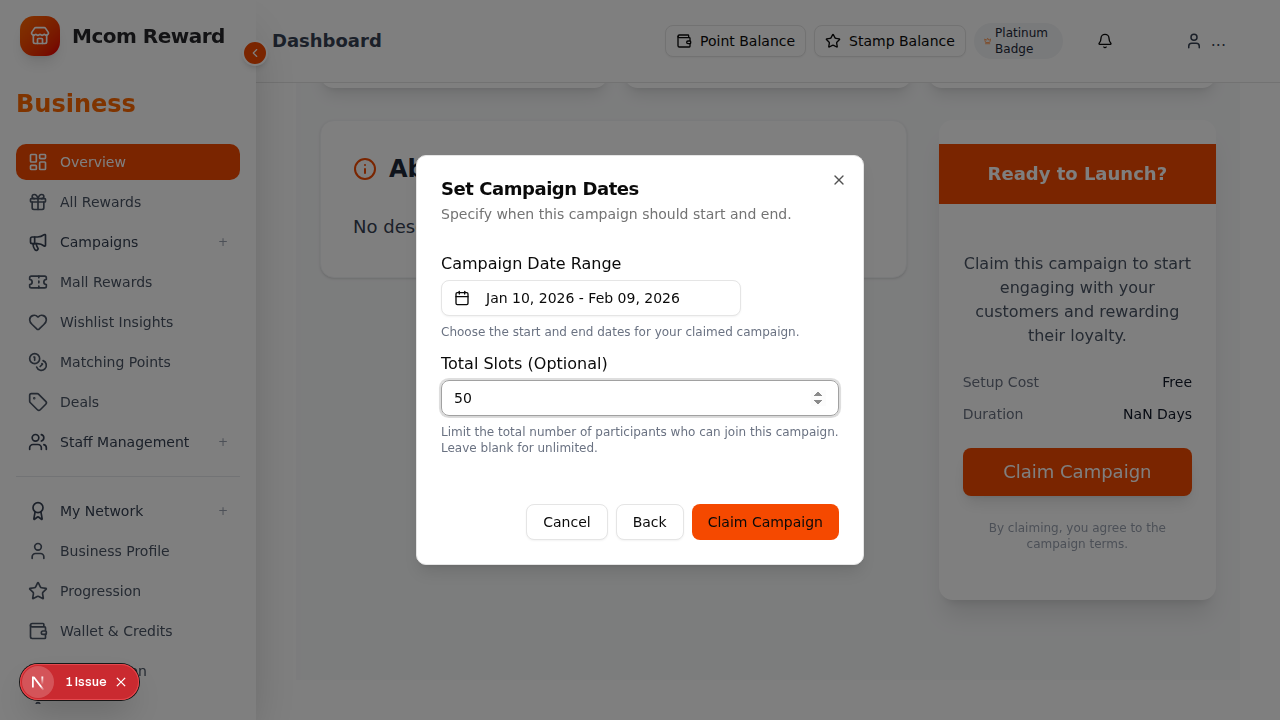
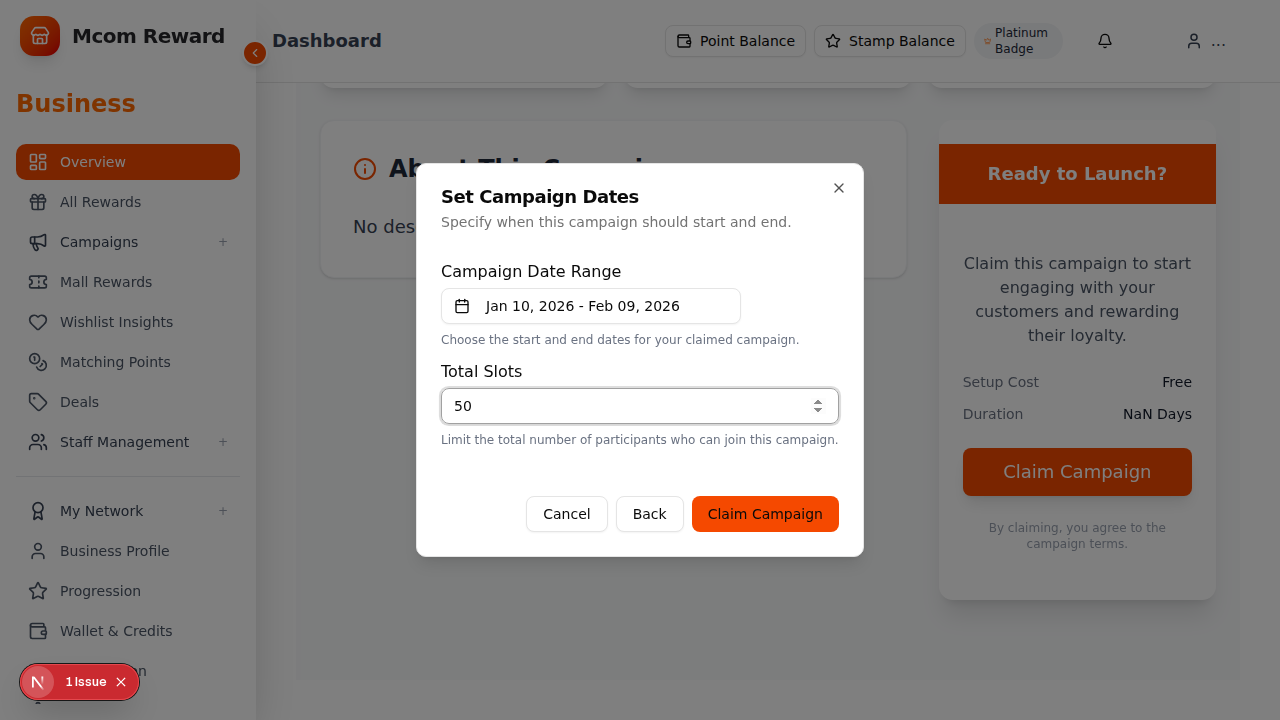
feat: make total slots mandatory in claim flow
- Remove "(Optional)" from "Total Slots" label in `SelectRewardModal`.
- Add validation to `SelectRewardModal` to ensure "Total Slots" is provided before proceeding.
- Update `ClaimCampaignPayload` interface to reflect mandatory nature if applicable (or maintain flexible type).

Changed region(s): [[0.3125, 0.2139, 0.6875, 0.6417], [0.3125, 0.6722, 0.6875, 0.7944]]

diff --git a/src/components/dashboard/campaigns/SelectRewardModal.tsx b/src/components/dashboard/campaigns/SelectRewardModal.tsx
@@ -78,9 +78,15 @@ export default function SelectRewardModal({
       return;
     }
 
-    if (showDates && (!dateRange?.from || !dateRange?.to)) {
-      toast.error('Please select a valid date range.');
-      return;
+    if (showDates) {
+      if (!dateRange?.from || !dateRange?.to) {
+        toast.error('Please select a valid date range.');
+        return;
+      }
+      if (totalSlots === undefined || totalSlots === null) {
+        toast.error('Total slots is required.');
+        return;
+      }
     }
 
     const allRewards = rewardsData?.data || [];
@@ -226,15 +232,15 @@ export default function SelectRewardModal({
               </p>
             </div>
             <div className="space-y-2">
-              <Label>Total Slots (Optional)</Label>
+              <Label>Total Slots</Label>
               <Input
                 type="number"
                 placeholder="e.g. 100"
-                value={totalSlots || ''}
-                onChange={(e) => setTotalSlots(e.target.value ? Number(e.target.value) : undefined)}
+                value={totalSlots !== undefined ? totalSlots : ''}
+                onChange={(e) => setTotalSlots(e.target.value === '' ? undefined : Number(e.target.value))}
               />
               <p className="text-xs text-gray-500">
-                Limit the total number of participants who can join this campaign. Leave blank for unlimited.
+                Limit the total number of participants who can join this campaign.
               </p>
             </div>
           </div>
